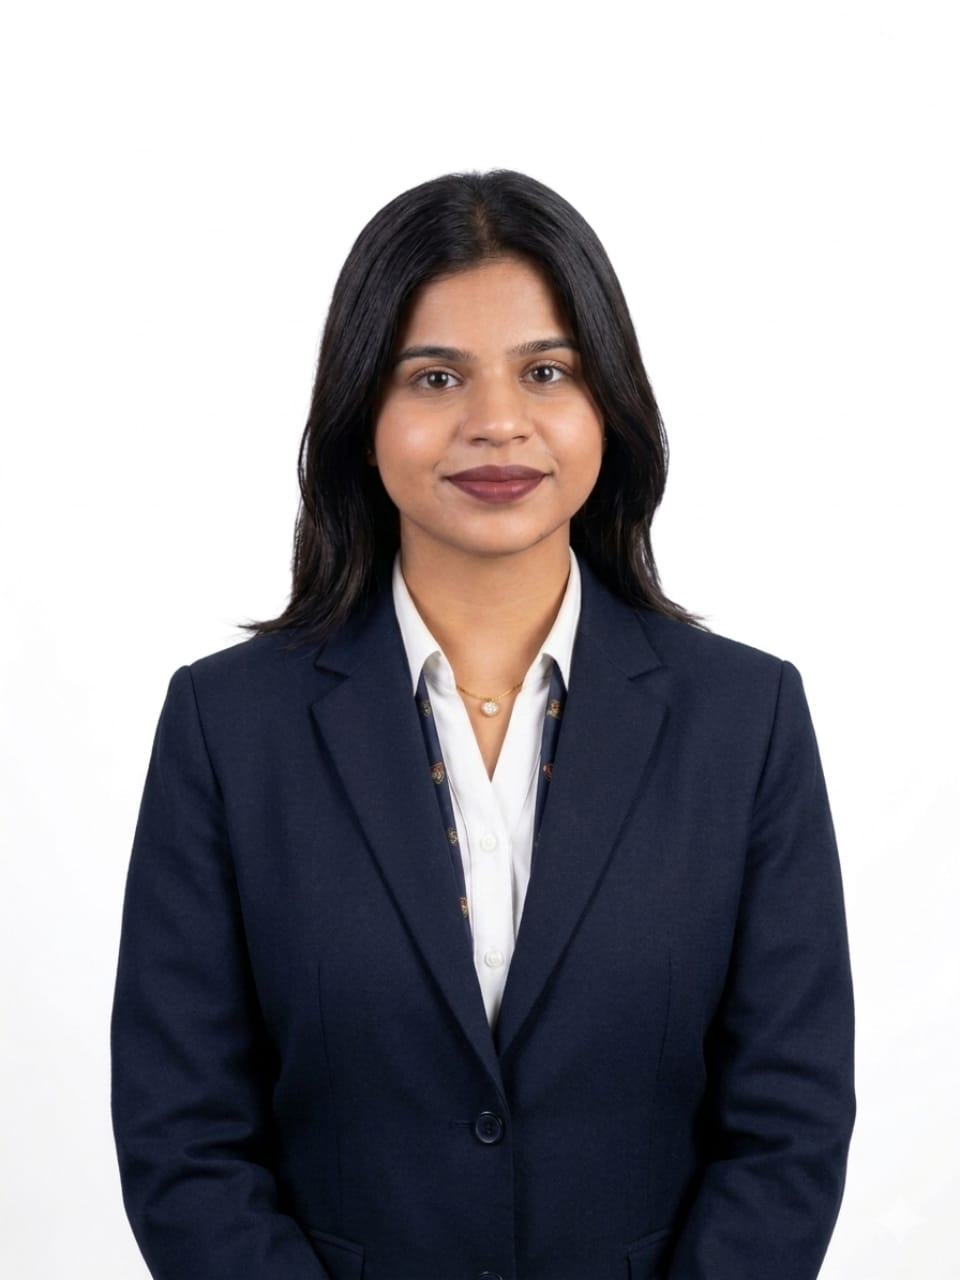
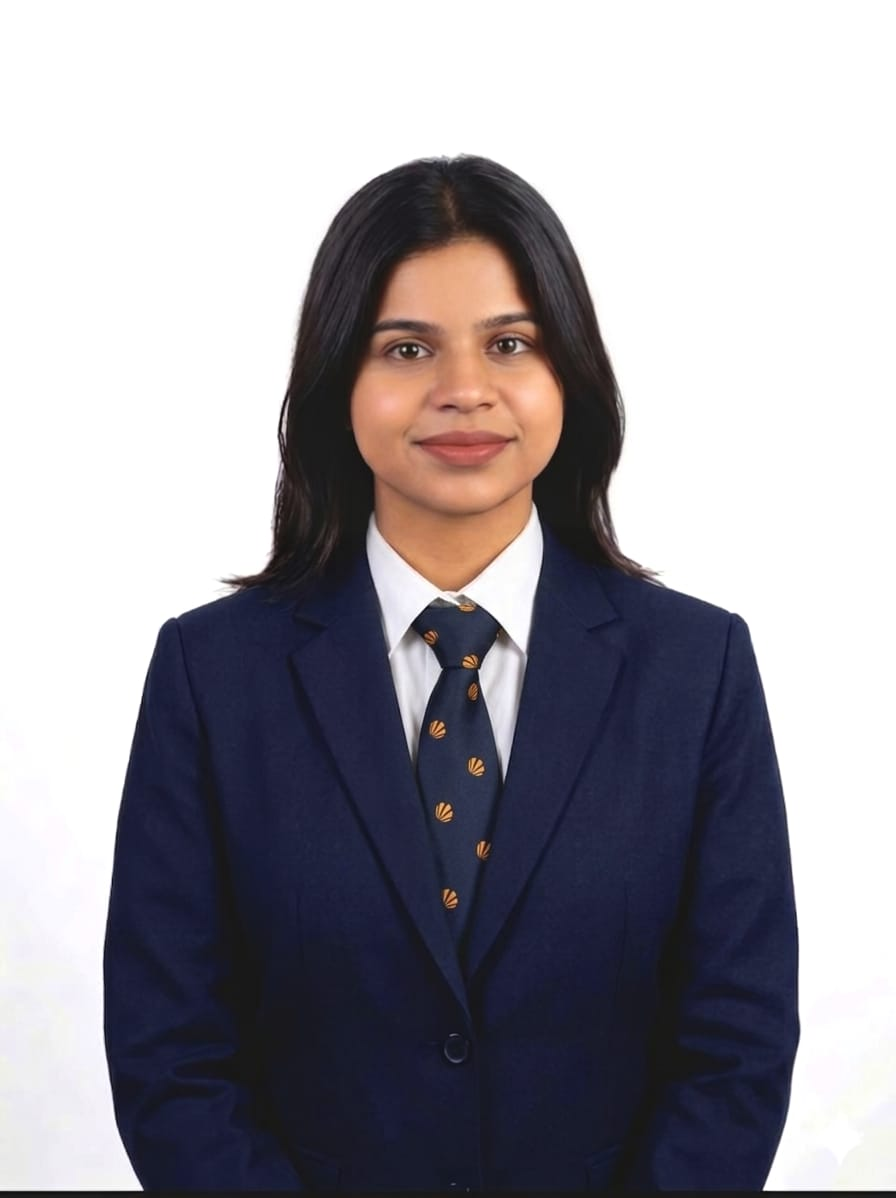
changes profile image and some project descriptions

diff --git a/data/index.ts b/data/index.ts
@@ -76,7 +76,7 @@ export const projects = [
   {
     id: 1,
     title: "Bond&Bites - Restaurant Order Management",
-    des: "Designed and developed a modular MERN-based order management system with JWT authentication and end-to-end menu/order CRUD, improving API performance by 35% through optimized routing and MongoDB indexing.",
+    des: "Bonds & Bites is a full-stack restaurant platform that seamlessly connects customers and admins through real-time ordering, reservations, and efficient management features.",
     img: "/bond&bites.png",
     iconLists: ["/re.svg", "/tail.svg", "/node.svg", "/mongo.svg"],
     link: "https://bondandbites.vercel.app/",
